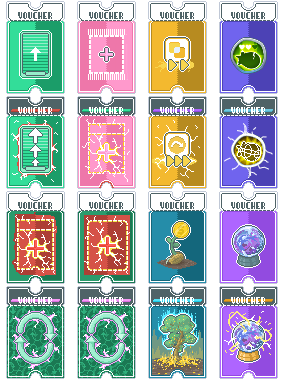
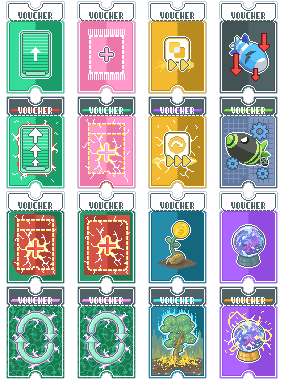
v0.3.2 art and final fixes

Changed region(s): [[0.7606, 0.2895, 0.9859, 0.4921], [0.7606, 0.0579, 0.9859, 0.2605]]

diff --git a/README.md b/README.md
@@ -3,3 +3,16 @@
 A Balatro mod that incorporates Bloons Tower Defense into the base game
 
 Includes 150 new Jokers, 15 new Decks, and more!
+
+---
+
+Huge thanks to the Ninja Kiwi team for the amazing game BTD6
+
+As well as the contributors to this mod
+
+- Birdz
+- Braces
+- Fireblazer
+- Geeph
+- Greenkookie56
+- Villain7
